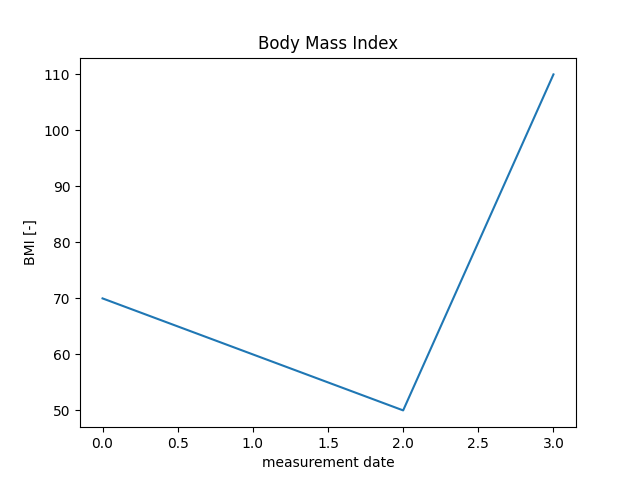
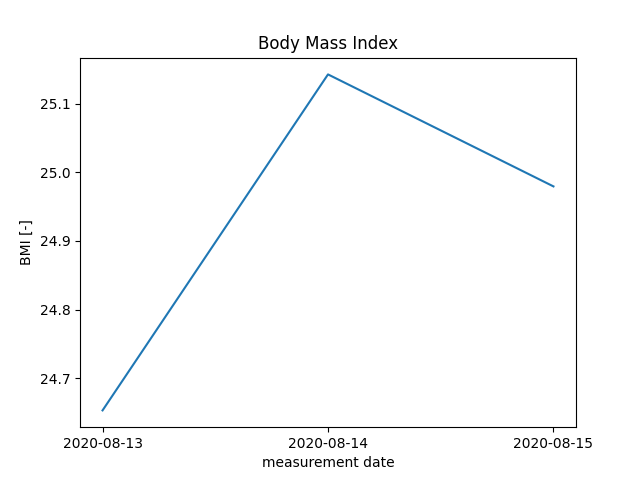
finished_graph_function

diff --git a/app/assets/stylesheets/modules/_graphs.scss b/app/assets/stylesheets/modules/_graphs.scss
@@ -2,22 +2,33 @@
   height: 100vh;
   width: 100vw;
   background: image-url('image.jpg');
+  padding: 2vh 2vw;
   display: flex;
   flex-direction: column;
   align-items: center;
   .graph_upper{
-    height: 45vh;
-    width: 90%;
-    margin-top: 3vh;
+    height: 45%;
+    width: 100%;
     display: flex;
     @include graph;
   }
   .graph_bottom{
-    height: 45vh;
-    width: 90%;
+    height: 45%;
+    width: 100%;
     display: flex;
     margin-top: 3vh;
     @include graph;
   }
-  @include bottom-info
+  .bottom-info{
+    width: 100%;
+    height: 10%;
+    display: flex;
+    align-items: center;
+    justify-content: space-around;
+    .fas{
+      display: block;
+      font-size: 3rem;
+      color: deepskyblue;
+    }
+  }
 }

diff --git a/app/controllers/graphs_controller.rb b/app/controllers/graphs_controller.rb
@@ -8,46 +8,62 @@ class GraphsController < ApplicationController
     matplotlib = PyCall.import_module('matplotlib')
     matplotlib.use('Agg')
     plt = PyCall.import_module('matplotlib.pyplot')
-
+    np = PyCall.import_module('numpy')
     os = PyCall.import_module('os')
 
     dirpath = 'app/assets/images/'
     
-    # データベース接続する
-    connection = PG::connect(host: "localhost", user: "yondo", dbname: "Calmania_development", port: "5432")
-    begin
-      result = connection.exec("SELECT * FROM User")
-    ensure
-      # データベースへのコネクションを切断する
-      connection.finish
+    result = Log.where(user_id: current_user.id).includes(:user).order(date: 'ASC')
+    height = User.find(current_user.id).height
+
+    date = []
+    weight = []
+    total = []
+    fat = []
+    bmi = []
+
+    result.each do |w|
+      date << w.date.to_s
+      weight << w.weight.to_f
+      total << w.total_cal.to_i
+      fat << w.bfp.to_f
+      bmi << (w.weight / ((height / 100) ** 2)).to_f
     end
-    @user = result.find(params[:id])
-    
+
+    x = np.array(date)
+    y = np.array(weight)
+
     plt.title('Height')
     plt.xlabel('measurement date')
-    plt.ylabel('height [kg]')
-    plt.plot([70,60,50,110])
+    plt.ylabel('weight [kg]')
+    plt.plot(x,y)
     plt.savefig(os.path.join(dirpath, "test.png"))
     plt.close()
+
+    y = np.array(total)
 
     plt.title('Total Calory')
     plt.xlabel('measurement date')
     plt.ylabel('Calory [kCal]')
-    plt.plot([70,60,50,110])
+    plt.plot(x, y)
     plt.savefig(os.path.join(dirpath, "test_1.png"))
     plt.close()
+
+    y = np.array(fat)
     
     plt.title('Body Fat Percentage')
     plt.xlabel('measurement date')
     plt.ylabel('Body Fat [%]')
-    plt.plot([70,60,50,110])
+    plt.plot(x, y)
     plt.savefig(os.path.join(dirpath, "test_2.png"))
     plt.close()
+
+    y = np.array(bmi)
 
     plt.title('Body Mass Index')
     plt.xlabel('measurement date')
     plt.ylabel('BMI [-]')
-    plt.plot([70,60,50,110])
+    plt.plot(x, y)
     plt.savefig(os.path.join(dirpath, "test_3.png"))
     plt.close()
   end

diff --git a/db/schema.rb b/db/schema.rb
@@ -62,6 +62,7 @@ ActiveRecord::Schema.define(version: 2020_05_02_110446) do
     t.integer "ideal_protain_rate"
     t.integer "ideal_fat_rate"
     t.integer "ideal_carbohydrate_rate"
+    t.integer "target_cal"
     t.datetime "created_at", null: false
     t.datetime "updated_at", null: false
     t.index ["email"], name: "index_users_on_email", unique: true

diff --git a/db/migrate/20200502063721_devise_create_users.rb b/db/migrate/20200502063721_devise_create_users.rb
@@ -36,6 +36,7 @@ class DeviseCreateUsers < ActiveRecord::Migration[5.2]
       t.integer :ideal_protain_rate
       t.integer :ideal_fat_rate
       t.integer :ideal_carbohydrate_rate
+      t.integer :target_cal
       t.timestamps null: false
     end
 

diff --git a/app/controllers/managements_controller.rb b/app/controllers/managements_controller.rb
@@ -1,7 +1,7 @@
 class ManagementsController < ApplicationController
 
   def index
-    @logs = Log.all
+    @logs = Log.all.includes(:id).order(date: 'DESC')
     @menus = Menu.all
     @user = User.find(current_user.id)
     
